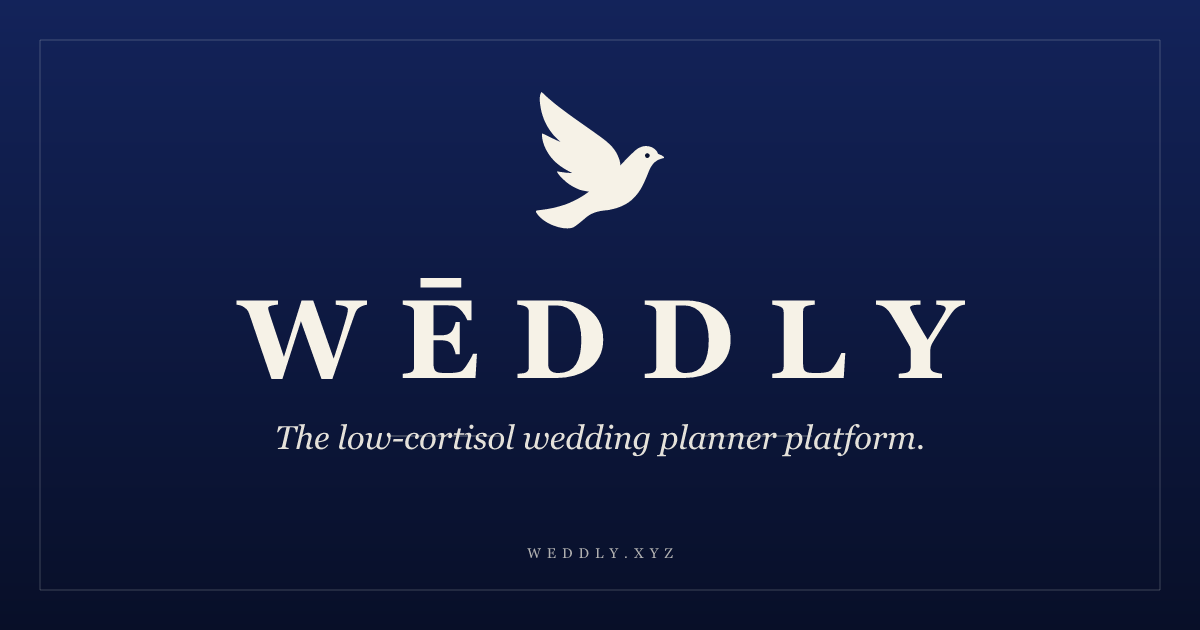
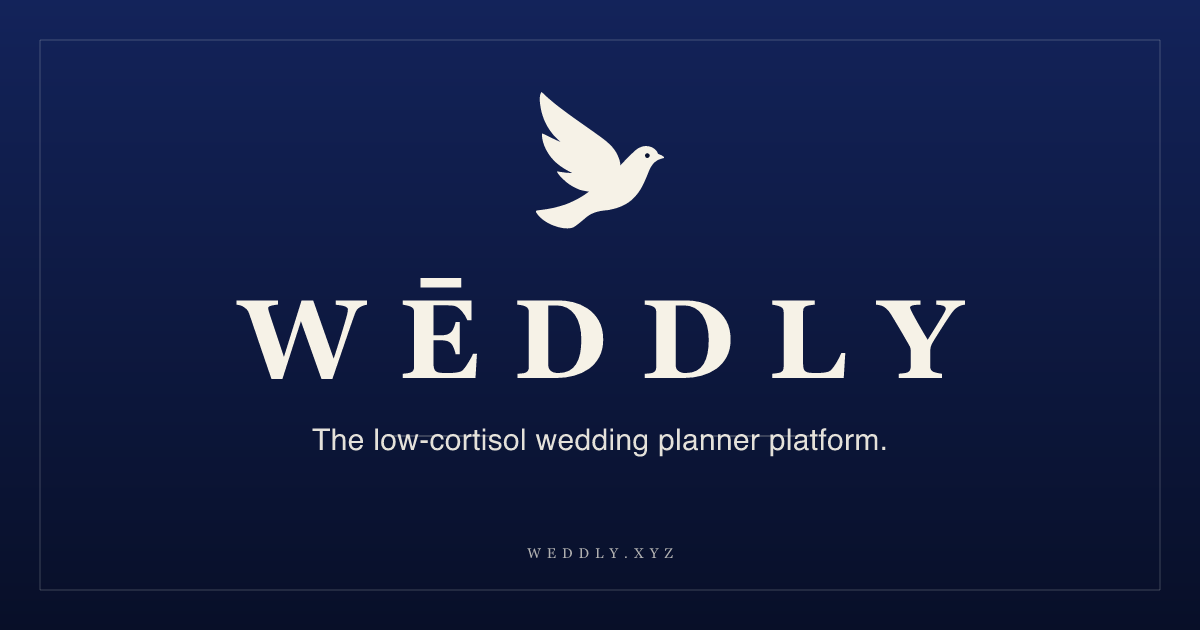
og: render tagline in General Sans (landing grotesk voice)
Switch the share-card tagline from italic Cormorant to General Sans,
the same self-hosted font the landing hero uses (font-grotesk). Load
the General Sans woff2 files into the resvg render so the PNG picks up
the real brand sans instead of a system fallback.

Changed region(s): [[0.2158, 0.6635, 0.7708, 0.7238]]

diff --git a/frontend/scripts/og-to-png.ts b/frontend/scripts/og-to-png.ts
@@ -41,7 +41,19 @@ for (const v of variants) {
     // 'Cormorant Garamond, Georgia, serif'. resvg-js falls through to
     // bundled noto fonts otherwise — Georgia approximates Cormorant
     // well enough for a one-shot social card.
-    font: { loadSystemFonts: true, defaultFontFamily: "Georgia" },
+    //
+    // Self-host General Sans (the landing `font-grotesk` voice) so the
+    // tagline renders in the real brand sans rather than a fallback.
+    // System fonts won't have it, so point resvg at the woff2 files.
+    font: {
+      loadSystemFonts: true,
+      defaultFontFamily: "Georgia",
+      fontFiles: [
+        resolve(root, "public/fonts/general-sans-400.woff2"),
+        resolve(root, "public/fonts/general-sans-500.woff2"),
+        resolve(root, "public/fonts/general-sans-600.woff2"),
+      ],
+    },
   });
   const png = resvg.render().asPng();
   writeFileSync(pngPath, png);
